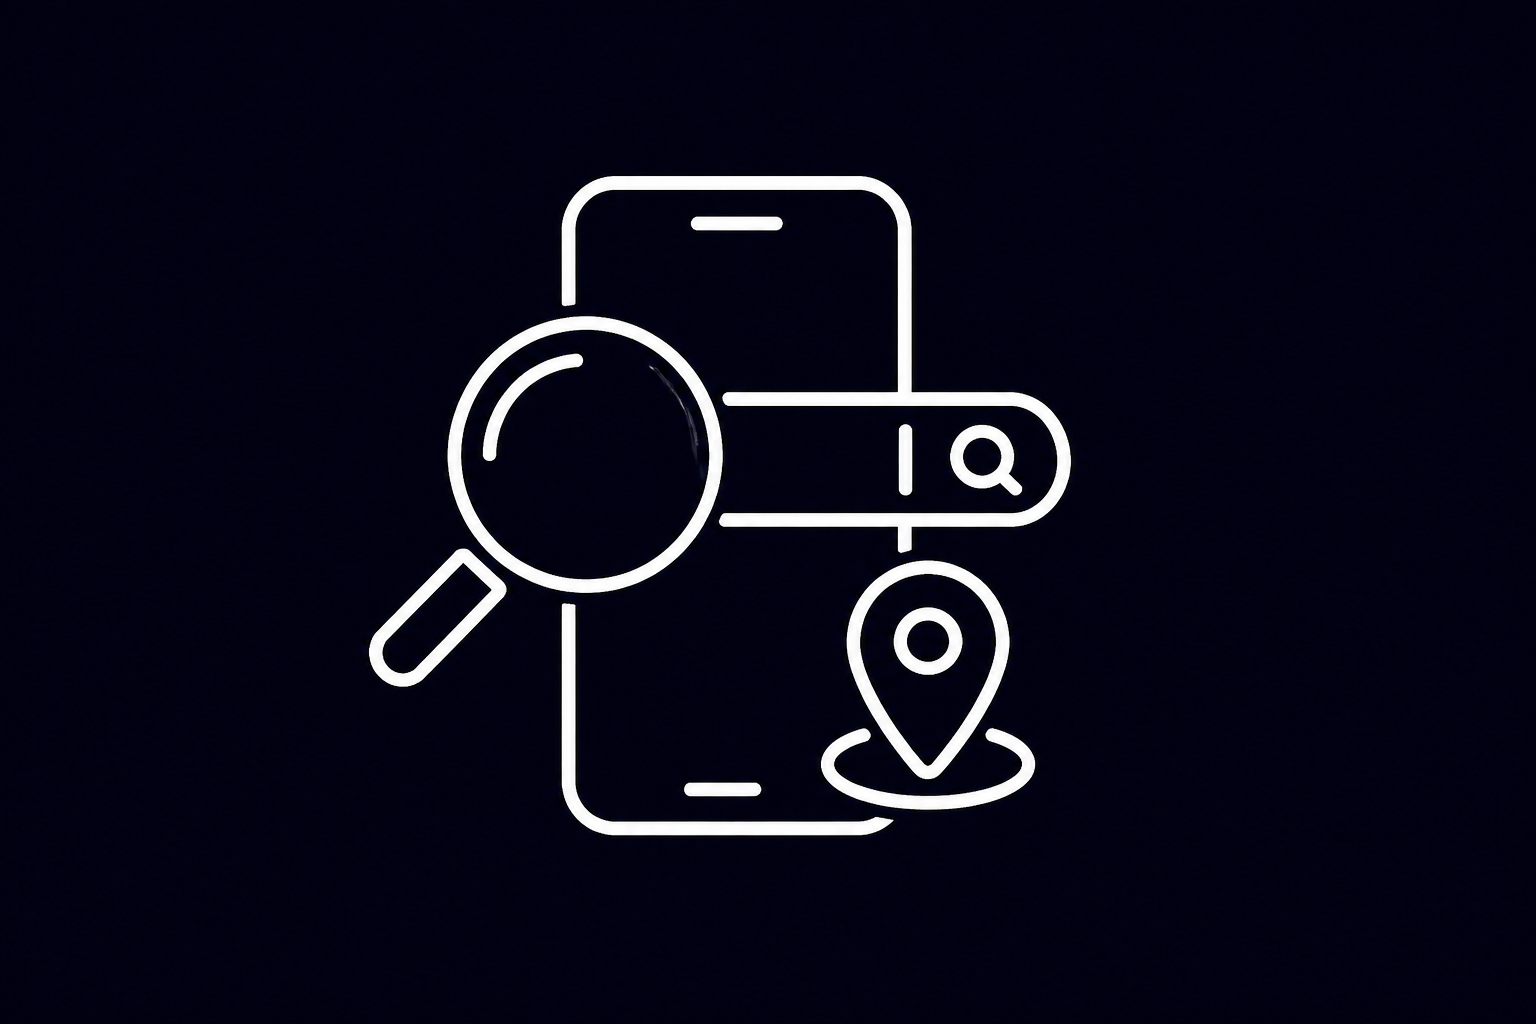
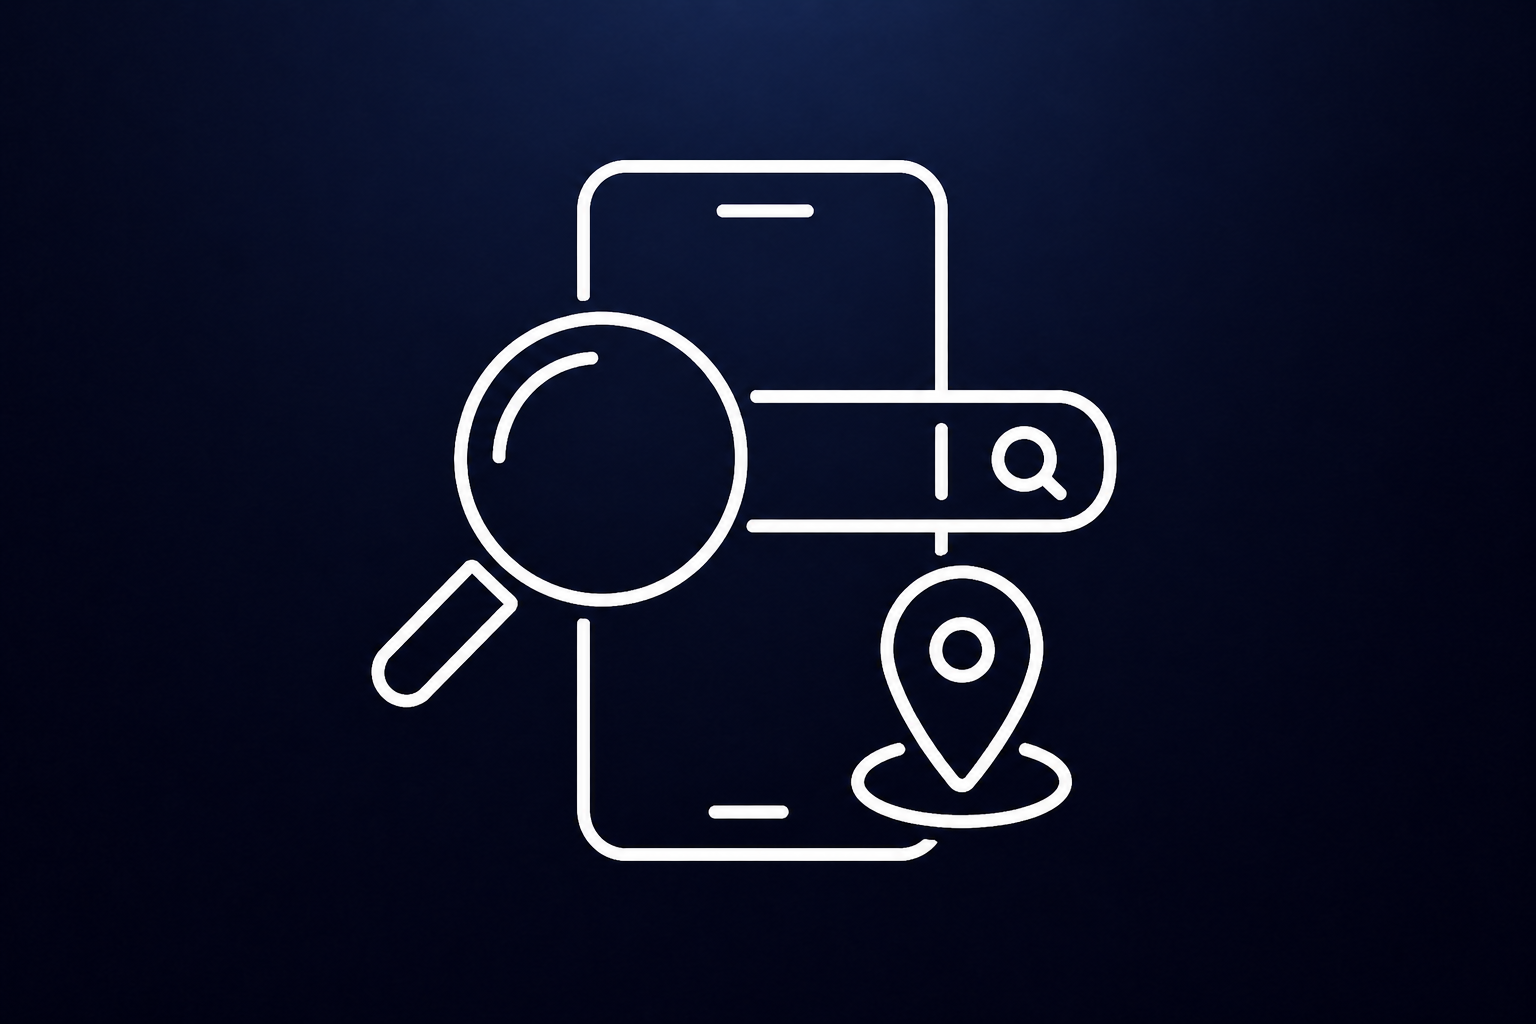
css

Changed region(s): [[0.1562, 0.0, 0.8125, 0.8438]]

diff --git a/index.html b/index.html
@@ -48,35 +48,37 @@
   </div>
 </div>
 
-<!-- HERO -->
 <section class="hero">
 
-  <div class="container hero-inner">
+  <div class="hero-inner">
 
     <!-- LEFT -->
     <div class="hero-content">
+      <img src="images/logo.png" class="hero-logo">
+
       <h1>
-        Websites That Bring You <span class="gradient-text">Real Customers</span>
+        WE BUILD WEBSITES<br>
+        THAT BRING YOU<br>
+        <span class="gradient-text">REAL CUSTOMERS</span>
       </h1>
 
       <p class="hero-sub">
-        I work directly with rural businesses — coming to you, understanding your business, 
-        and building a website that gets you found on Google.
+        Modern websites. Proven SEO.<br>
+        Real results for rural businesses.
       </p>
 
-      <div class="hero-buttons">
-        <a href="contact.html" class="btn-primary">Get a Free Quote</a>
-        <a href="how-it-works.html" class="btn-secondary">How It Works</a>
-      </div>
+      <a href="#" class="btn-primary">GET A FREE QUOTE</a>
 
-      <div class="hero-trust">
-        ✓ Local • ✓ Rural • ✓ Built for Small Business
+      <div class="hero-features">
+        <div>LOCAL<br><span>Rural Focused</span></div>
+        <div>RESULTS DRIVEN<br><span>Built for Growth</span></div>
+        <div>RELIABLE<br><span>Ongoing Support</span></div>
       </div>
     </div>
 
     <!-- RIGHT -->
     <div class="hero-visual">
-      <img src="images/crane-logo.png" class="hero-img" alt="Crane Platform Labs">
+      <img src="images/hero-graphic.png" alt="Website preview">
     </div>
 
   </div>
